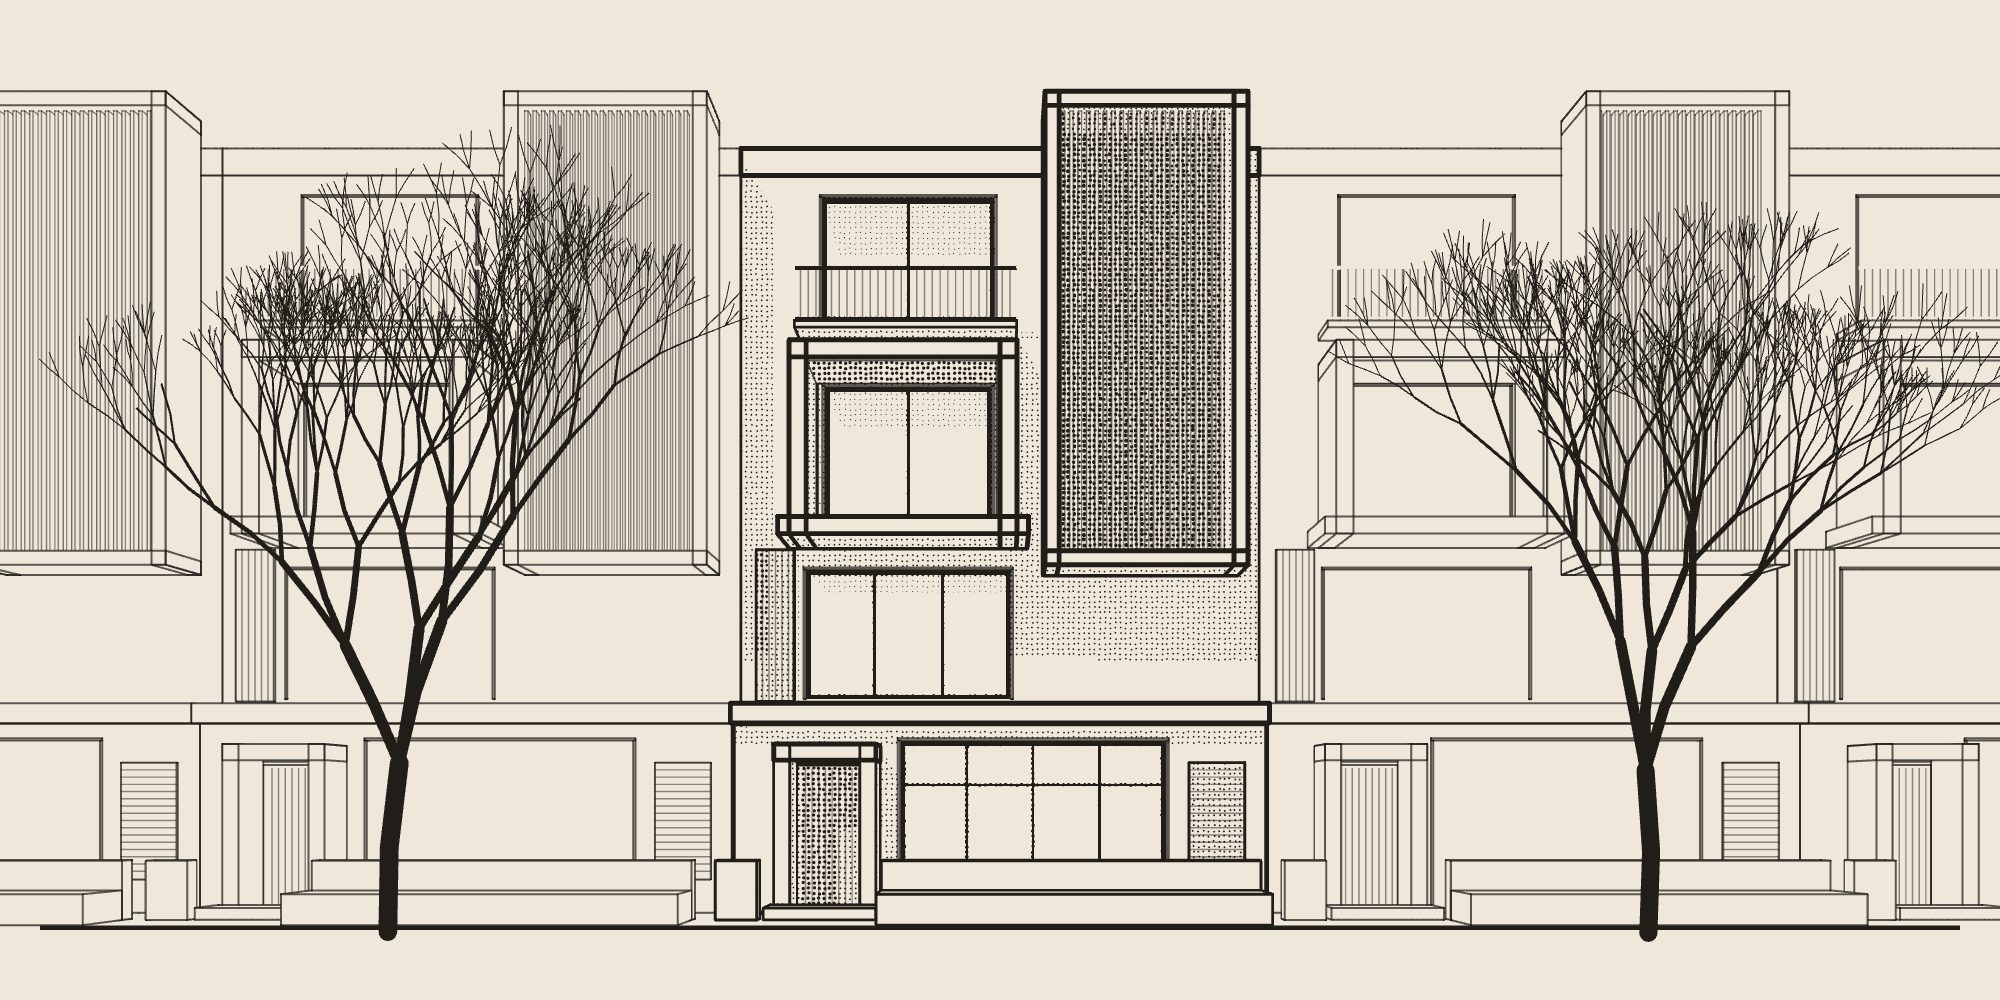
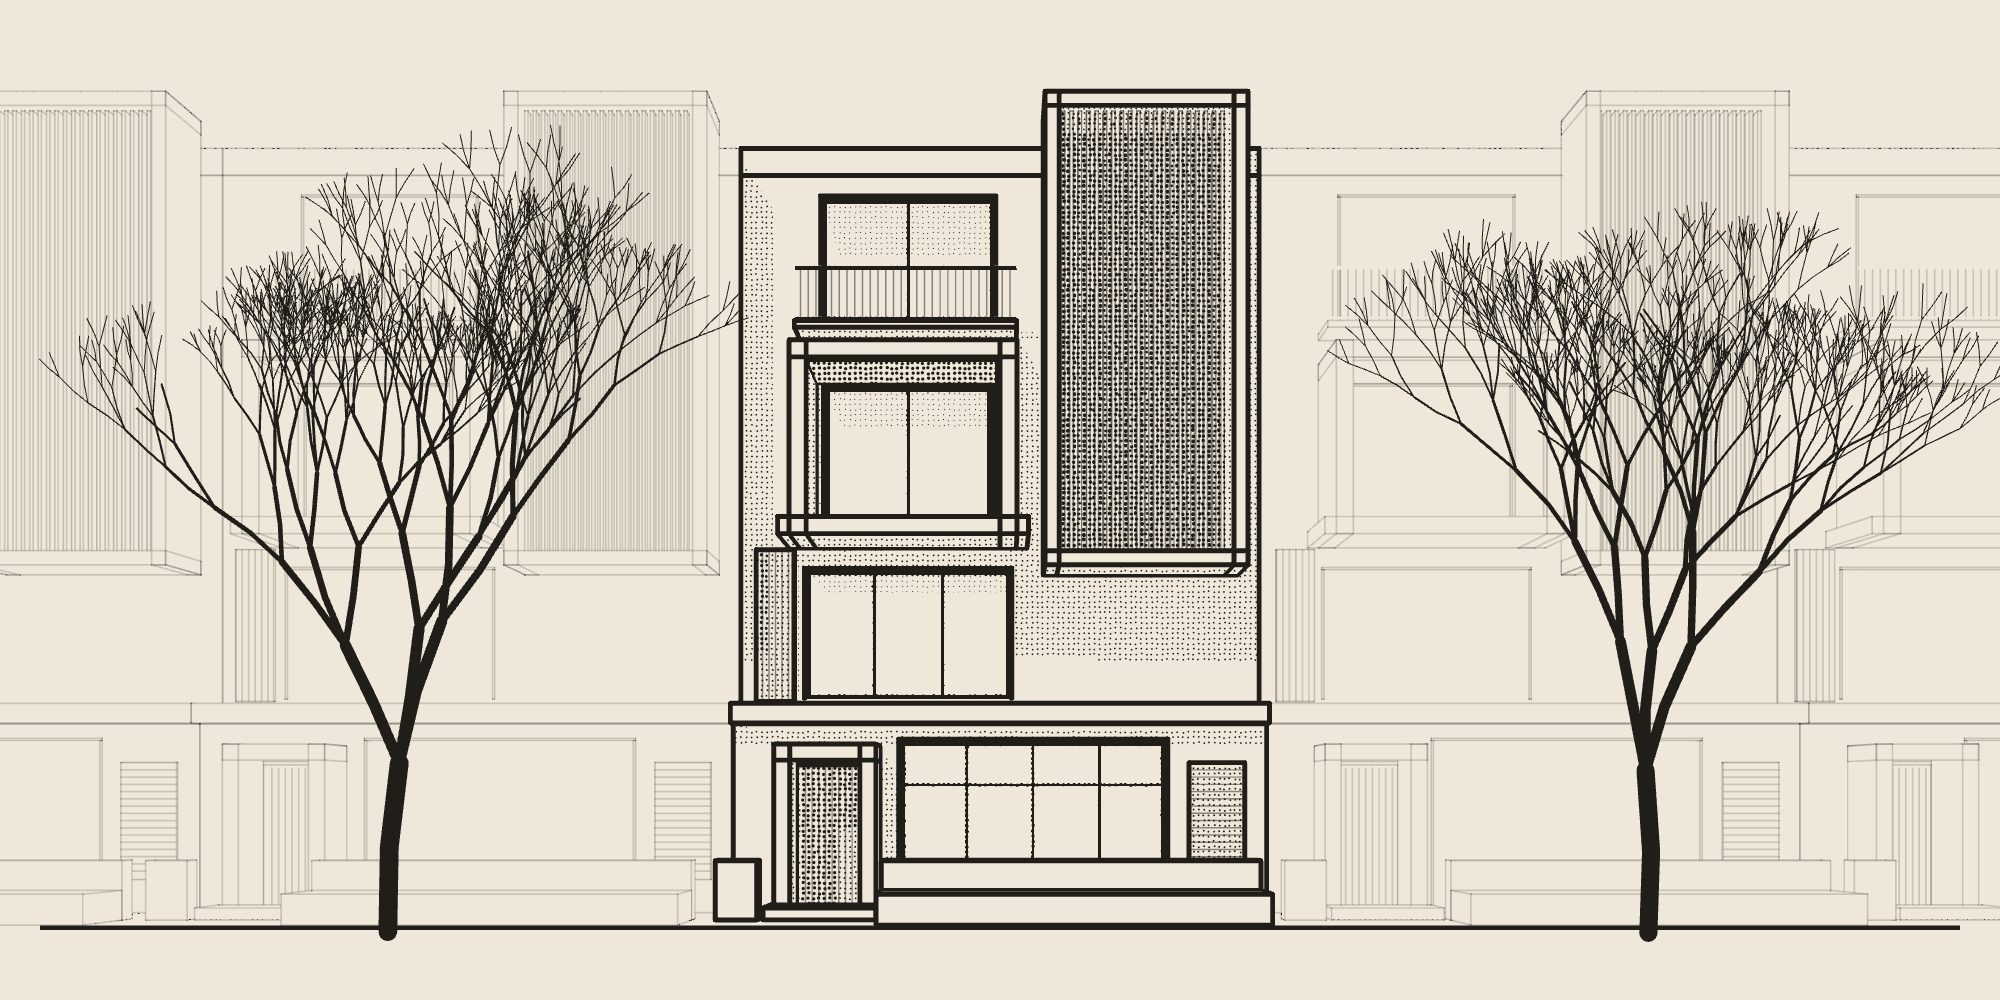
Residences: focus on one house
Neighbours either side are drawn in faint ghost lines only (no tone),
and on Courtyard Villas every edge of the middle house is one weight
heavier. Stills regenerated.

Claude-Session: https://claude.ai/code/session_01C95DWHDY8NmwjfweiUBywE

diff --git a/src/ink/stage.js b/src/ink/stage.js
@@ -13,7 +13,7 @@ export { projector, scaleAt, toPlane } from './project'
 
 const L_SOLID = 0, L_TONE = 1, L_LINE = 2
 const AMBIENT = 0.66                         // a white wall in full shadow: about a fifth ink, after the curve below
-const WEIGHT = { heavy: 1.7, main: 1, soft: 0.7, hair: 0.5 }   // line widths, CSS px
+const WEIGHT = { heavy: 1.7, main: 1, soft: 0.7, hair: 0.5, ghost: 0.6 }   // line widths, CSS px; ghost: the houses either side
 
 // Tone → ink, as an even stipple: one round dot per small cell, its area equal to the darkness, nudged a little off
 // the grid so it does not read as a screen. No random grain, no specks: random noise looks like dirt.
@@ -96,7 +96,7 @@ export function makeStage(canvas, { view, ink = '#211e1a', paper = '#efe8da', re
   const flats = new Map()
   const flatMat = (a) => flats.get(a) || flats.set(a, new THREE.MeshBasicMaterial({ color: new THREE.Color().setRGB(a, a, a * 0.5, THREE.LinearSRGBColorSpace) })).get(a)
   const mat = (a, clean = false) => { const k = a + (clean ? 'c' : ''); return mats.get(k) || mats.set(k, grey(a, clean)).get(k) }
-  const lines = { heavy: [], main: [], soft: [], hair: [] }
+  const lines = { heavy: [], main: [], soft: [], hair: [], ghost: [] }
 
   const kit = {
     THREE,
@@ -149,7 +149,7 @@ export function makeStage(canvas, { view, ink = '#211e1a', paper = '#efe8da', re
   const lineMats = []
 
   function finish() {
-    for (const [name, opacity] of [['hair', 0.5], ['soft', 0.72], ['main', 1], ['heavy', 1]]) {
+    for (const [name, opacity] of [['ghost', 0.18], ['hair', 0.5], ['soft', 0.72], ['main', 1], ['heavy', 1]]) {
       if (!lines[name].length) continue
       const m = new LineMaterial({ color: new THREE.Color(ink), linewidth: WEIGHT[name], transparent: opacity < 1, opacity, depthWrite: false })
       const l = new LineSegments2(new LineSegmentsGeometry().setPositions(lines[name]), m); l.layers.set(L_LINE); scene.add(l); lineMats.push([m, WEIGHT[name]])

diff --git a/src/ink/villas.js b/src/ink/villas.js
@@ -33,8 +33,10 @@ export const SPOTS = [
 
 /** One villa module. m: its place along the row (0 = the middle one). faint: a neighbour, drawn a tone lighter. */
 function villa(k, m, faint) {
-  const tone = (a) => (faint ? 1 - (1 - a) * 0.15 : a)
-  const weight = (l) => (!faint || !l || l === 'hair' ? l : 'soft')
+  const tone = (a) => (faint ? 1 - (1 - a) * 0.06 : a)
+  // the neighbours: every line faint; the middle villa: every edge a step heavier, so the eye stays on it
+  const STEP = { soft: 'main', main: 'heavy', heavy: 'heavy', hair: 'hair' }
+  const weight = (l) => (!l ? l : faint ? 'ghost' : STEP[l])
   const ox = m * P - P / 2                       // the module's left edge, render units, with module 0 centred on x = 0
   const box = (x, y, z, w, h, d, a = WHITE, o = {}) => k.box((x + ox) * S, y * S, z * S, w * S, h * S, d * S, tone(a), { ...o, line: weight(o.line ?? 'main'), ...(faint ? { shade: false, flat: true } : {}) })
   const seg = (pairs, l = 'main') => k.seg(pairs.map(([p, q]) => [[(p[0] + ox) * S, p[1] * S, p[2] * S], [(q[0] + ox) * S, q[1] * S, q[2] * S]]), weight(l))

diff --git a/src/ink/homes.js b/src/ink/homes.js
@@ -44,8 +44,8 @@ export const SPOTS = [
 
 /** One house. ox: offset along the row. faint: a neighbour, drawn a tone lighter and without the rooms behind its glass. */
 function house(k, ox = 0, faint = false) {
-  const tone = (a) => (faint ? 1 - (1 - a) * 0.15 : a)
-  const weight = (l) => (!faint || !l || l === 'hair' ? l : 'soft')
+  const tone = (a) => (faint ? 1 - (1 - a) * 0.06 : a)
+  const weight = (l) => (!l ? l : faint ? 'ghost' : l)                  // the neighbours: every line faint, so the eye stays on the middle house
   // everything below is in render units; these three turn it into metres and place it along the row
   const box = (x, y, z, w, h, d, a = WHITE, o = {}) => k.box(x * S + ox, y * S, z * S, w * S, h * S, d * S, tone(a), { ...o, line: weight(o.line ?? 'main'), ...(faint ? { shade: false, flat: true } : {}) })
   const seg = (pairs, l = 'main') => k.seg(pairs.map(([p, q]) => [[p[0] * S + ox, p[1] * S, p[2] * S], [q[0] * S + ox, q[1] * S, q[2] * S]]), weight(l))

diff --git a/.claude/skills/ink-drawing/SKILL.md b/.claude/skills/ink-drawing/SKILL.md
@@ -54,7 +54,7 @@ Kit calls a model uses:
 
 ## The two residence types are drawn alike
 
-Courtyard Homes (`src/ink/homes.js`) and Courtyard Villas (`src/ink/villas.js`) sit side by side in Residences, so they share one camera (square-on, eye 1.7 m, about 24 m back), the same tones, glass and tree rules, and both are draggable `InkDrawing`s (`model="homes" | "villas"`, registered in `src/ink/models.js`). Never give one of them a different viewpoint. A wall with windows is built around its openings (villas.js `wall()`), with a lit room behind each, or the glass ends up inside a solid box. Fallback stills: `node tools/ink/still.cjs <model> public/drawings/<model>-ink.jpg`.
+Courtyard Homes (`src/ink/homes.js`) and Courtyard Villas (`src/ink/villas.js`) sit side by side in Residences, so they share one camera (square-on, eye 1.7 m, about 24 m back), the same tones, glass and tree rules, and both are draggable `InkDrawing`s (`model="homes" | "villas"`, registered in `src/ink/models.js`). Never give one of them a different viewpoint. Focus on one house: neighbours are drawn only in `ghost` lines (0.6 px at 18 % opacity, no tone), and on Villas every edge of the middle house is one weight heavier. A wall with windows is built around its openings (villas.js `wall()`), with a lit room behind each, or the glass ends up inside a solid box. Fallback stills: `node tools/ink/still.cjs <model> public/drawings/<model>-ink.jpg`.
 
 ## The oblique scenes (done)
 
